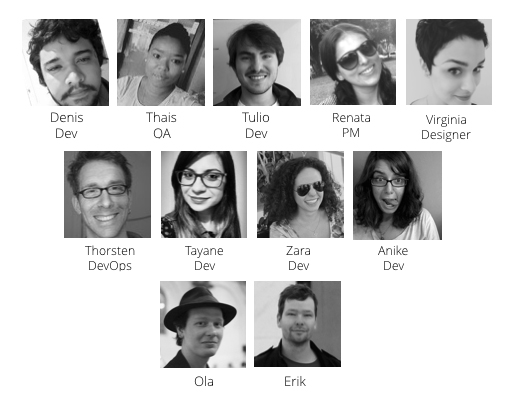
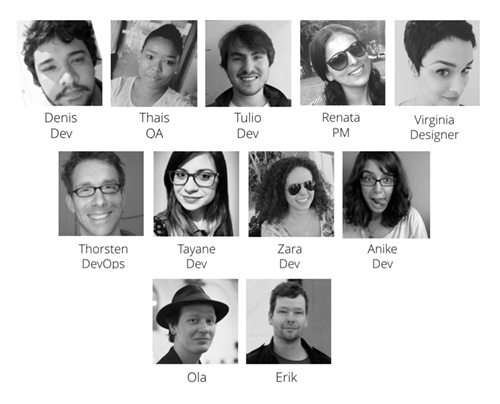
Changes team picture size and font for links

diff --git a/assets/css/PITCHME.css b/assets/css/PITCHME.css
@@ -28,6 +28,7 @@ body {
 
 .reveal a {
   color: #fff;
+  font-weight: 700;
 }
 
 .reveal a:hover {

diff --git a/PITCHME.md b/PITCHME.md
@@ -61,8 +61,10 @@ https://github.com/pixelated/pixelated-user-agent
 #### Thank you
 #### Obrigado
 
+<div style="font-size: 0.8em">
 * pixelated-project.org
 * github.com/pixelated
 * @pixelatedteam
 * pixelated@irc.freenode.net
 * team@pixelated-project.org <br> 504A 14EA 39DE 1800 B676 9619 FF0E A8AE D649 7991
+</div>
